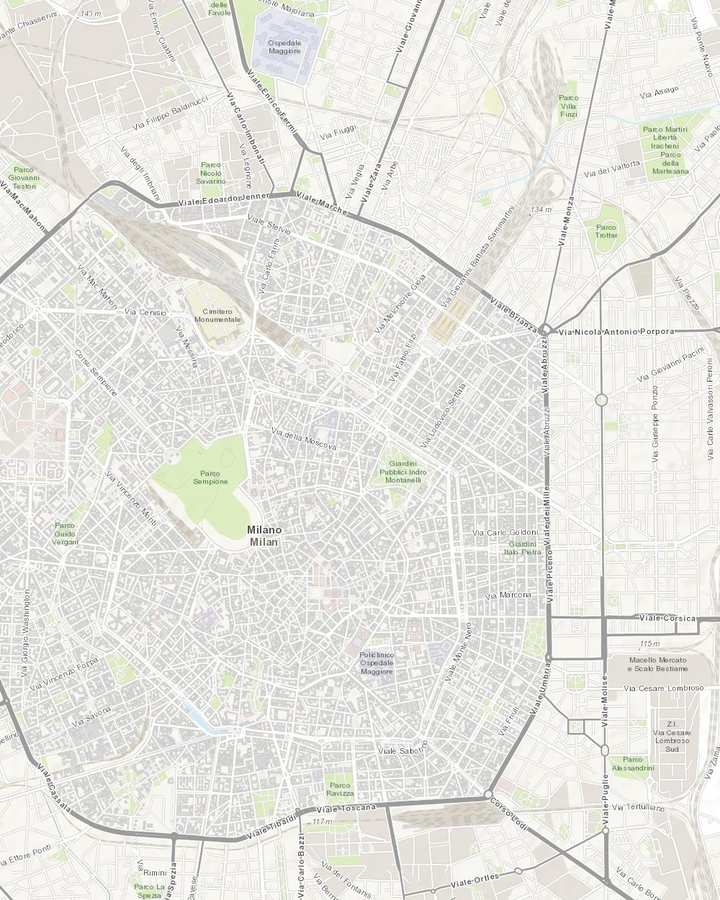
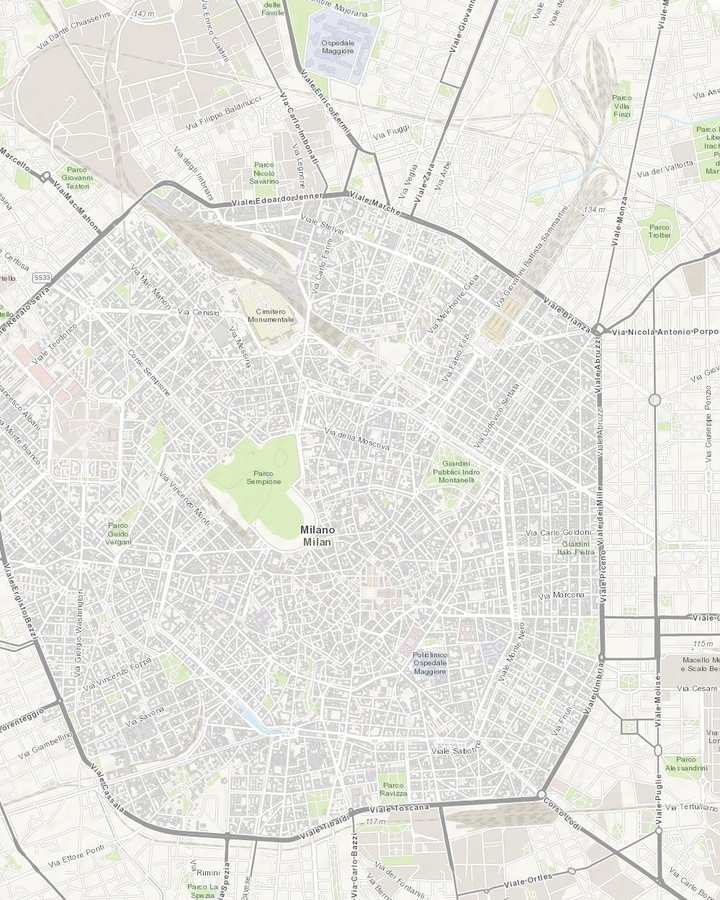
第 40 轮：米兰重排——D10 傍晚大教堂露台看日落、Ratanà 19:45；D11 睡到自然醒 + 长廊 + Da Pino 12:45 + 购物中间看《最后的晚餐》（下午场待填）；地图 10b/11 重画

diff --git a/index.html b/index.html
@@ -1369,19 +1369,19 @@ var DAYS = [
 /* ---------------- D10 ---------------- */
 {
   n:10, date:"2026-10-15", dow:"周四", city:"布雷萨诺内 → 米兰",
-  line:"9:30 直接出发去米兰（开车约 4 小时 + 午饭 1.5 小时，两人换手）；15:00 卸行李、15:30 还车、傍晚 Porta Nuova 机动",
+  line:"9:30 直接出发去米兰（开车约 4 小时 + 午饭 1.5 小时，两人换手）；15:00 卸行李、15:30 还车；16:45 大教堂、17:15 上露台看 18:39 日落；19:45 Ratanà",
   drive:"开车约 4 小时 + 午饭 45 分，两人换手", stayShort:"米兰 Modern Apartment",
   stay:{ t:"米兰 Modern Apartment · 10/15-10/17 共 2 晚", d:"房东 Luca｜Viale Lunigiana 4｜入住 15:00 后 · 退房 10:00 · 22:00 后安静。", addr:"Viale Lunigiana 4, 20125 Milano" },
   wc:["milano"],
-  flag:"※ 9:30 直接出发去米兰；Europcar 订单 16:00 还车，15:30 到就还，车开进 Via Vittor Pisani 19 地下二层，不是车站里；进城前加满油，绕车拍视频",
+  flag:"※ 9:30 直接出发去米兰；Europcar 订单 16:00 还车，15:30 到就还，车开进 Via Vittor Pisani 19 地下二层，不是车站里；进城前加满油，绕车拍视频；大教堂 Combo Lift 提前买 10/15 17:00 那档，露台上看日落",
   route:[
     {n:"Gerharts 公寓", m:"Kreuzgasse 11 Brixen", leg:"🚗 约 4 小时，中间坐下吃午饭 1.5 小时"},
     {n:"民宿 Viale Lunigiana 4（先卸行李）", m:"Viale Lunigiana 4 Milano", leg:"🚗 3 分钟"},
     {n:"Europcar 还车 · Via Vittor Pisani 19 地下二层", m:"Via Vittor Pisani 19 Milano", leg:"步行约 15 分钟"},
-    {n:"民宿 Viale Lunigiana 4", m:"Viale Lunigiana 4 Milano", leg:"M2 两站到 Gioia（或打车 10 分钟）"},
-    {n:"Gae Aulenti 广场 · 垂直森林（机动）", m:"Piazza Gae Aulenti Milano", leg:"步行约 4 分钟"},
-    {n:"Corso Como 步行街 · Eataly（机动）", m:"Corso Como 10 Milano", leg:"步行约 10 分钟"},
-    {n:"晚饭 Ratanà", m:"Ratanà Via Gaetano de Castillia 28 Milano", leg:"打车 10 分钟回住处（或 M2 Gioia 一站到 Centrale）"}
+    {n:"民宿 Viale Lunigiana 4 · 放包歇 20 分钟", m:"Viale Lunigiana 4 Milano", leg:"步行 6 分钟到中央车站 · 🚇 M3 四站到 Duomo 约 10 分钟"},
+    {n:"米兰大教堂：先内部，17:15 上露台看日落", m:"Duomo di Milano", leg:"🚕 约 15 分钟（或 M3 回 Centrale 换 M2 一站到 Gioia 走 9 分钟）"},
+    {n:"晚饭 Ratanà", m:"Ratanà Via Gaetano de Castillia 28 Milano", leg:"步行约 5 分钟"},
+    {n:"Gae Aulenti 广场 · 垂直森林夜景（可选）", m:"Piazza Gae Aulenti Milano", leg:"打车 10 分钟回住处（或 M2 Gioia 一站到 Centrale 走 10 分钟）"}
   ],
   steps:[
     { id:"d10-1", t:"9:30", e:"🚗", a:"早饭退房出发去米兰：A22 → A4 约 4 小时，中间坐下吃午饭 1.5 小时，两人换手",
@@ -1394,54 +1394,65 @@ var DAYS = [
       sub:"进城前最后一个加油站加满（满取满还），绕车拍视频。导航输 Via Vittor Pisani 19，开进地下二层 Europcar 区，钥匙当面交给工作人员、拿回执；办手续的门店在 Via Luigi Galvani 12，走 6 分钟。当天 7:30–21:00，电话 +39 02 66987826。",
       addr:["Europcar 还车库：Via Vittor Pisani 19, 20124 Milano","Europcar 门店：Via Luigi Galvani 12, 20124 Milano"],
       nav:{m:"Via Vittor Pisani 19 Milano", mode:"driving"} },
-    { id:"d10-5", t:"16:00", e:"🔑", a:"走 15 分钟回民宿，入住休整（箱子已经在屋里）",
-      sub:"从 Via Vittor Pisani 走到车站前的 Piazza Duca d'Aosta，绕到车站东侧，沿 Via Sammartini 到 Viale Lunigiana 4，平路 15 分钟。路上没吃好：车站外 Piazza Luigi di Savoia 那侧（去民宿的方向）就有 All'Antico Vinaio（每天 10:00-22:00），买个佛罗伦萨式 schiacciata 夹饼带回去。",
+    { id:"d10-5", t:"15:45", e:"🔑", a:"走 15 分钟回民宿放包、歇 20 分钟（箱子已经在屋里）",
+      sub:"从 Via Vittor Pisani 走到车站前的 Piazza Duca d'Aosta，绕到车站东侧，沿 Via Sammartini 到 Viale Lunigiana 4，平路 15 分钟。换双好走的鞋，带件外套：露台上有风。",
       nav:{m:"Viale Lunigiana 4 Milano", mode:"walking"} },
-    { id:"d10-6", t:"18:00", e:"🌆", a:"机动：Centrale 坐 M2 两站到 Gioia，走 5 分钟到 Porta Nuova——Gae Aulenti 广场、垂直森林", optional:true,
-      sub:"新米兰的客厅：下沉式广场、喷泉、玻璃高楼天际线；沿 Luigi Veronelli 步道看 Bosco Verticale 两栋长满树的楼。累了就不去，19:15 直接从住处打车去晚饭。",
-      nav:{m:"Piazza Gae Aulenti Milano", mode:"transit"}, place:"Piazza Gae Aulenti Milano" },
-    { id:"d10-7", t:"18:40", e:"🛍", a:"机动：Corso Como 步行街 + Eataly Smeraldo 买带回国的吃的，40 分钟", optional:true,
-      sub:"广场走 4 分钟到 Corso Como，300 米步行街，10 Corso Como 概念店进去看看；尽头 Piazza XXV Aprile 的 Eataly（每天 8:30-21:00）买意面、橄榄油、咖啡豆，先逛后吃，别放饭后。",
-      addr:["Eataly Milano Smeraldo：Piazza XXV Aprile 10, Milano"],
-      nav:{m:"Corso Como 10 Milano", mode:"walking"} },
-    { id:"d10-8", t:"19:30", e:"🍚", a:"晚饭 Ratanà：Gioia 站走 8 分钟；没去 Porta Nuova 就从住处打车 10 分钟", kind:"eat",
+    { id:"d10-5b", t:"16:20", e:"🚇", a:"走 6 分钟到中央车站，M3 黄线（往 San Donato 方向）四站到 Duomo，约 10 分钟",
+      sub:"Centrale → Repubblica → Turati → Montenapoleone → Duomo，出站就是大教堂广场，16:40 到。",
+      tips:["米兰地铁 2026 年起不卖纸票：每人拿自己的非接触信用卡（或手机）在闸机上刷，€2.20 一程 90 分钟内随便换乘，一天自动封顶 €7.60；出站也要刷同一张卡"],
+      nav:{m:"Duomo Metro Milano", mode:"transit"} },
+    { id:"d10-6", t:"16:45", hard:"Combo Lift 官网买 10/15 17:00 那档", e:"⛪", a:"米兰大教堂：先进教堂 30 分钟，17:15 电梯上露台，等 18:39 日落", it:"Duomo di Milano",
+      sub:"Combo Lift €26/人（含教堂 + 电梯上屋顶 + 大教堂博物馆 + San Gottardo 教堂，博物馆不看）。今天顺序反过来：先进教堂内部 30 分钟（教堂 19:00 关、末入 18:10），17:15 走北侧电梯入口上露台，在上面待到 19:00 关门：18:39 日落，黄金圣母和尖塔群被夕阳打红，之后城市灯亮。下来全程楼梯（251 级），慢慢走扶栏杆。",
+      warn:["电梯只到露台第一层：再上一层和全程下来都是楼梯","着装过膝盖、过肩膀，教堂里不戴帽子；别带大包","露台 19:00 准时清场，18:50 就往楼梯口走"],
+      need:["米兰大教堂 Combo Lift 电子票（官网订 10/15 17:00 档）"],
+      tips:["屋顶重点：避雷针上的黄金圣母 Madonnina（米兰最高点）、半裸的拿破仑像、藏在雕塑群里的拳击手；正门和屋顶都留着二战弹痕，没抹掉","进门前看正门青铜浮雕：右边圣母之乐、左边圣母之苦","里面：低头看脚下的墓碑，抬头找红灯标记的圣钉（主祭坛上方），别错过剥皮的圣巴多罗买雕像，内部最有名的一件","广场人多防偷，包背前面","视频给四个 A：专程为它来米兰不值，人在米兰绝不能错过"],
+      link:{u:"https://ticket.duomomilano.it/en/", l:"官网买票"},
+      ticket:true, nav:{m:"Duomo di Milano", mode:"walking"}, place:"Duomo di Milano",
+      video:"https://www.bilibili.com/video/BV14tE1ziEQX/" },
+    { id:"d10-7", t:"19:00", e:"🚕", a:"下露台打车 15 分钟去 Ratanà（或 M3 回 Centrale 换 M2 一站到 Gioia 再走 9 分钟，约 30 分钟）",
+      sub:"广场边用 FreeNow 叫车最省事，约 €15，19:20 到，正好落座。",
+      nav:{m:"Ratanà Via Gaetano de Castillia 28 Milano", mode:"driving"} },
+    { id:"d10-8", t:"19:45", e:"🍚", a:"晚饭 Ratanà：Isola 区 1920 年代老宅里的烩饭", kind:"eat",
       meals:[
         {n:"Ratanà", g:"4.4",
          d:"招牌 risotto alla vecchia Milano：藏红花烩饭配小牛 ossobuco 可乐饼和骨髓；还有当季菜、米兰炸小牛排",
          h:"每天 12:00-14:30 / 19:00-23:00",
          w:"Google 4.4（3,865 评），€40-90，点单菜人均 €60-70；1920 年代老宅 + 小花园，Isola 区，本地人多",
-         b:"官网表单订，收到确认邮件才算，没收到就打电话", tel:"+39 02 8712 8855", m:"Ratanà Via Gaetano de Castillia 28 Milano"}
+         b:"官网表单订 19:45，收到确认邮件才算，没收到就打电话", tel:"+39 02 8712 8855", m:"Ratanà Via Gaetano de Castillia 28 Milano"}
       ],
       tips:["爸妈嫌烩饭夹生：意大利烩饭标配是米芯稍硬（al dente），点单时提前说厨房才会多煮两分钟。英语：「Could you please cook the risotto a little longer, softer than al dente? My parents prefer it well done.」意大利语：「Il risotto ben cotto, non al dente, per favore.」","烩饭是两人起做的店也常见，三人点两份分着吃正好，再点一份主菜"],
       addr:["Ratanà：Via Gaetano de Castillia 28, Milano"],
       link:{u:"https://www.ratana.it/?lang=en", l:"官网订位"},
       nav:{m:"Ratanà Via Gaetano de Castillia 28 Milano", mode:"walking"} },
     { id:"d10-9", t:"21:30", e:"🏠", a:"回住处：让餐厅叫车 10 分钟，或走 5 分钟到 M2 Gioia 坐一站到 Centrale 再走 10 分钟",
-      nav:{m:"Viale Lunigiana 4 Milano", mode:"driving"} }
+      nav:{m:"Viale Lunigiana 4 Milano", mode:"driving"} },
+    { id:"d10-9", t:"饭后", e:"🌆", a:"可选：走 5 分钟到 Gae Aulenti 广场看垂直森林和玻璃高楼的夜景，15 分钟", optional:true,
+      sub:"Ratanà 就在 Porta Nuova 边上：下沉式广场、喷泉、Bosco Verticale 两栋长满树的楼，晚上亮灯好看。看完让餐厅叫车 10 分钟回住处，或走 5 分钟到 M2 Gioia 坐一站到 Centrale 再走 10 分钟。",
+      nav:{m:"Piazza Gae Aulenti Milano", mode:"walking"}, place:"Piazza Gae Aulenti Milano" }
   ]
 },
 /* ---------------- D11 ---------------- */
 {
-  n:11, date:"2026-10-16", dow:"周五", city:"米兰 · 大教堂 + 购物",
-  line:"中央车站里吃早饭、M3 到 Duomo，11:00 大教堂 + 屋顶，Luini 站着吃个午饭，下午购物（Marchesi 下午茶可选），Camparino 一杯，晚饭 Nerino Dieci",
+  n:11, date:"2026-10-16", dow:"周五", city:"米兰 · 购物 + 下午《最后的晚餐》",
+  line:"睡到自然醒，站里早饭、M3 到 Duomo 逛长廊，12:45 Da Pino，下午购物，中间抽 1.5 小时看《最后的晚餐》（淘宝代抢的下午场，出票后填时间），Camparino 一杯，晚饭 Nerino Dieci",
   drive:"", stayShort:"米兰 Modern Apartment",
   stay:{ t:"米兰 Modern Apartment · 第 2 晚（明早退房）", d:"Viale Lunigiana 4 · 退房 10:00 · 22:00 后安静。", addr:"Viale Lunigiana 4, 20125 Milano" },
   wc:["milano"],
-  flag:"※ 大教堂 Combo Lift 票官网提前买；退税单收好，明天机场办",
+  flag:"※ 《最后的晚餐》场次时间出票后填进下午那步，提前 40 分钟从店里出发；退税单收好，明天机场办",
   route:[
     {n:"民宿 Viale Lunigiana 4", m:"Viale Lunigiana 4 Milano", leg:"步行约 6 分钟"},
     {n:"早饭 Mercato Centrale（中央车站里）", m:"Mercato Centrale Milano", leg:"🚇 M3 四站到 Duomo 约 10 分钟"},
-    {n:"米兰大教堂 + 屋顶露台", m:"Duomo di Milano", leg:"步行约 2 分钟"},
     {n:"埃马努埃莱二世长廊 · 斯卡拉广场", m:"Galleria Vittorio Emanuele II Milano", leg:"步行约 14 分钟"},
     {n:"午饭 Trattoria Da Pino", m:"Trattoria Da Pino Via Cerva 14 Milano", leg:"步行约 10 分钟"},
-    {n:"蒙特拿破仑街 + Buccellati", m:"Buccellati Via Monte Napoleone 23 Milano", leg:"步行约 10 分钟"},
+    {n:"蒙特拿破仑街 + Buccellati", m:"Buccellati Via Monte Napoleone 23 Milano", leg:"🚕 约 15 分钟（或 M3 一站到 Duomo 换 M1 两站到 Cadorna 走 9 分钟）"},
+    {n:"《最后的晚餐》Santa Maria delle Grazie（下午场，时间待填）", m:"Cenacolo Vinciano Milano", leg:"🚇 M1 Cadorna 两站回 Duomo 约 15 分钟"},
     {n:"埃马努埃莱二世大街 · 文艺复兴百货", m:"La Rinascente Milano", leg:"步行约 2 分钟"},
     {n:"Marchesi 1824 下午茶（可选）· Camparino 开胃酒", m:"Camparino in Galleria Milano", leg:"步行约 11 分钟"},
     {n:"晚饭 Nerino Dieci", m:"Nerino Dieci Via Nerino 10 Milano", leg:"🚇 M3 Missori 五站到 Centrale + 步行 11 分钟（或打车 10 分钟）"}
   ],
   steps:[
-    { id:"d11-1", t:"9:00", e:"🥐", a:"出门走 6 分钟到中央车站，早饭 Mercato Centrale（站里）", kind:"eat",
-      sub:"顺路：吃完直接在站里坐 M3。挑面包摊、咖啡摊，40 分钟。",
+    { id:"d11-1", t:"9:30", e:"🥐", a:"出门走 6 分钟到中央车站，早饭 Mercato Centrale（站里）", kind:"eat",
+      sub:"今天不赶，睡到自然醒；吃完直接在站里坐 M3。挑面包摊、咖啡摊，40 分钟。",
       meals:[
         {n:"Mercato Centrale Milano", g:"4.4",
          d:"面包、咸派、咖啡摊挑着吃，人均 €10 内",
@@ -1451,23 +1462,15 @@ var DAYS = [
       ],
       addr:["Mercato Centrale：Via G.B. Sammartini 2（中央车站内）, Milano"],
       nav:{m:"Mercato Centrale Milano", mode:"walking"} },
-    { id:"d11-2", t:"9:50", e:"🚇", a:"中央车站坐 M3 黄线（往 San Donato 方向）四站到 Duomo，约 10 分钟",
-      sub:"Centrale → Repubblica → Turati → Montenapoleone → Duomo，出站就是大教堂广场。到早了先在广场和长廊转转，10:45 到大教堂北侧屋顶入口排队。",
+    { id:"d11-2", t:"10:15", e:"🚇", a:"中央车站坐 M3 黄线（往 San Donato 方向）四站到 Duomo，约 10 分钟",
+      sub:"Centrale → Repubblica → Turati → Montenapoleone → Duomo，出站就是大教堂广场。昨天已经上过露台、进过教堂，今天只在广场看看外立面。",
       tips:["米兰地铁 2026 年起不卖纸票：每人拿自己的非接触信用卡（或手机）在闸机上刷，€2.20 一程 90 分钟内随便换乘，一天自动封顶 €7.60；出站也要刷同一张卡"],
       nav:{m:"Duomo Metro Milano", mode:"transit"} },
-    { id:"d11-3", t:"11:00", hard:"官网提前买票", e:"⛪", a:"米兰大教堂 + 屋顶露台：先上屋顶再进教堂，按 2 小时算", it:"Duomo di Milano",
-      sub:"买 Combo Lift 票 €26/人（含教堂 + 电梯上屋顶 + 大教堂博物馆 + San Gottardo 教堂，两天有效，博物馆想看再看）。教堂里 30-45 分钟、屋顶 45 分钟左右，加安检排队按 2 小时算，12:45 前出来。",
-      warn:["电梯只到露台第一层：再上一层和全程下来都是楼梯，爸妈慢慢走、扶栏杆","着装过膝盖、过肩膀，教堂里不戴帽子；别带大包"],
-      need:["米兰大教堂 Combo Lift 电子票（官网订）"],
-      tips:["顺序：先上屋顶再进内部，屋顶下来的楼梯直通教堂里，不走回头路","屋顶重点：避雷针上的黄金圣母 Madonnina（米兰最高点）、半裸的拿破仑像、藏在雕塑群里的拳击手；正门和屋顶都留着二战弹痕，没抹掉","进门前看正门青铜浮雕：右边圣母之乐、左边圣母之苦","里面：低头看脚下的墓碑，抬头找红灯标记的圣钉（主祭坛上方），别错过剥皮的圣巴多罗买雕像，内部最有名的一件","广场人多防偷，包背前面","视频给四个 A：专程为它来米兰不值，人在米兰绝不能错过"],
-      link:{u:"https://ticket.duomomilano.it/en/", l:"官网买票"},
-      ticket:true, nav:{m:"Duomo di Milano", mode:"walking"}, place:"Duomo di Milano",
-      video:"https://www.bilibili.com/video/BV14tE1ziEQX/" },
-    { id:"d11-4", t:"12:45", e:"🛍", a:"出来逛长廊：就是埃马努埃莱二世长廊，穿过去到斯卡拉广场",
-      sub:"大教堂北侧那座玻璃顶拱廊 Galleria Vittorio Emanuele II，早上吃早饭的地方；马赛克地板的公牛脚跟转三圈，四大洲穹顶画抬头看，Prada 1913 老店；穿过去就是斯卡拉歌剧院和达芬奇雕像的广场。",
+    { id:"d11-4", t:"10:30", e:"🛍", a:"逛长廊到斯卡拉广场，慢慢走到 12:30",
+      sub:"大教堂北侧那座玻璃顶拱廊 Galleria Vittorio Emanuele II：马赛克地板的公牛脚跟转三圈，四大洲穹顶画抬头看，Prada 1913 老店；穿过去就是斯卡拉歌剧院和达芬奇雕像的广场，再往 Via Dante 方向随便走。走累了长廊里 Marchesi 1824 坐坐（16:30 那步可以提前到这会儿）；12:30 往 Da Pino 走。",
       nav:{m:"Galleria Vittorio Emanuele II Milano", mode:"walking"} },
-    { id:"d11-5", t:"13:00", e:"🍝", a:"午饭 Trattoria Da Pino：1968 年的午市老店，坐下吃 1.5 小时", kind:"eat",
-      sub:"长廊出来走 14 分钟到 Via Cerva 14。只做午市 12:00–15:00，周六也开、周日休，不接受订位，12:30 后要排队，13:00 到排一会儿；菜单每天换：米兰炸小牛排 cotoletta、烩饭、bollito 配 salsa verde、自制提拉米苏，便宜得不像市中心。14:30 出来走 10 分钟到蒙特拿破仑街。想吃 Luini 的炸馅饼就路过加一口，不当午饭。",
+    { id:"d11-5", t:"12:45", e:"🍝", a:"午饭 Trattoria Da Pino：1968 年的午市老店，坐下吃 1.5 小时", kind:"eat",
+      sub:"长廊出来走 14 分钟到 Via Cerva 14。只做午市 12:00–15:00，周六也开、周日休，不接受订位，12:30 后要排队，12:45 到排一会儿；菜单每天换：米兰炸小牛排 cotoletta、烩饭、bollito 配 salsa verde、自制提拉米苏，便宜得不像市中心。14:15 出来走 10 分钟到蒙特拿破仑街。想吃 Luini 的炸馅饼就路过加一口，不当午饭。",
       meals:[
         {n:"Trattoria Da Pino", g:"4.3",
          d:"cotoletta alla milanese、risotto、bollito 配 salsa verde、fegato alla veneziana、自制提拉米苏",
@@ -1482,12 +1485,20 @@ var DAYS = [
       ],
       addr:["Trattoria Da Pino：Via Cerva 14, Milano","Luini：Via Santa Radegonda 16, Milano"],
       nav:{m:"Trattoria Da Pino Via Cerva 14 Milano", mode:"walking"} },
-    { id:"d11-6", t:"14:30", e:"💍", a:"购物：蒙特拿破仑街 → 埃马努埃莱二世大街 → 文艺复兴百货，逛到 18:15",
-      sub:"妈妈要的四瓣花在 Buccellati（Via Monte Napoleone 23，周五 10:30-19:00）。米兰逛街就这三段连着走，全在步行 10 分钟圈里。",
+    { id:"d11-6", t:"14:15", e:"💍", a:"购物：蒙特拿破仑街 → 埃马努埃莱二世大街 → 文艺复兴百货，逛到 18:15；中间按《最后的晚餐》场次抽 1.5 小时",
+      sub:"妈妈要的四瓣花在 Buccellati（Via Monte Napoleone 23，周五 10:30-19:00）。米兰逛街就这三段连着走，全在步行 10 分钟圈里。《最后的晚餐》几点场就几点走：场次前 40 分钟从店里出发（下一步），看完回来接着逛。",
       tips:["① 蒙特拿破仑街 + Via della Spiga：奢侈品四边形，店多 10:00-19:30，看橱窗为主，只进要买的","② 走回 Corso Vittorio Emanuele II（大教堂到 San Babila 的步行街）：大众和中档牌子都在这条街，最适合爸妈实穿的","③ Rinascente 文艺复兴百货（Piazza Duomo，周五 9:30-22:00）：意大利中高端牌子集中，进门问服务台要楼层图和退税柜台位置；7 楼 food hall + 露台正对大教堂尖顶，逛累了在这歇脚喝咖啡","④ 还有劲：走 15 分钟到 Brera 小街逛设计小店，或明早退房前不行；离住处最近的大众商业街是 Corso Buenos Aires（Porta Venezia 到 Loreto，1.2 公里，多数店 19:00-20:00 关），今晚回程 M1 在 Lima 下车就能顺路逛","退税：同一张发票 €70.01 以上才能退，让店员开 tax free 单，护照带着；退税的东西不拆吊牌不上身、按退税公司分开放，行李箱单独开一张单（帖子说箱子最容易被驳回，别和别的东西开一张）；不同护照买的别混放"],
       warn:["退税单收好，明天机场办"],
       addr:["Buccellati：Via Monte Napoleone 23, Milano","Rinascente：Piazza del Duomo, Milano"],
       nav:{m:"Via Monte Napoleone Milano", mode:"walking"} },
+    { id:"d11-6c", t:"下午", hard:"淘宝出票后把场次时间填在这里，提前 40 分钟出发", e:"🖼", a:"《最后的晚餐》：Santa Maria delle Grazie 修道院食堂，看 15 分钟", it:"Cenacolo Vinciano",
+      sub:"蒙特拿破仑街打车 15 分钟最省事（约 €15）；坐地铁：M3 一站到 Duomo 换 M1 两站到 Cadorna，出站走 9 分钟，约 25 分钟。入口在 Piazza Santa Maria delle Grazie 2，提前 20 分钟到门口核票（票是实名的，带护照）。每场 15 分钟、40 人，到点清场；进画室前先在恒温恒湿的过渡舱里等几分钟。看完旁边的教堂免费（工作日 15:30–19:00 开），进去 10 分钟看 Bramante 的圆顶后堂；然后 M1 Cadorna 两站回 Duomo，或打车 15 分钟回蒙特拿破仑街接着逛。",
+      tips:["画在食堂北墙上，隔几米远看，不许闪光；进去前先看一遍讲解视频（📺），15 分钟才看得出门道","抢票规则：官方 cenacolovinciano.vivaticket.it 每周三 12:00 意大利时间放下一整周的票（10/25 前是夏令时，= 北京 18:00），€15/人，一单最多 5 张；10/16 的票 10/7 周三放，淘宝没抢到自己也能试"],
+      need:["《最后的晚餐》电子票或淘宝代订凭证 + 三本护照"],
+      addr:["Cenacolo Vinciano：Piazza Santa Maria delle Grazie 2, Milano"],
+      link:{u:"https://cenacolovinciano.vivaticket.it", l:"官方售票"},
+      ticket:true, nav:{m:"Cenacolo Vinciano Milano", mode:"driving"}, place:"Cenacolo Vinciano Milano",
+      video:"https://search.bilibili.com/all?keyword=%E6%9C%80%E5%90%8E%E7%9A%84%E6%99%9A%E9%A4%90%20%E7%B1%B3%E5%85%B0%20%E8%AE%B2%E8%A7%A3" },
     { id:"d11-6b", t:"16:30", e:"🍰", a:"下午茶 Marchesi 1824 长廊店（可选）：逛累了坐进去喝杯 cappuccino 配小蛋糕", optional:true,
       sub:"长廊里 Prada 老店斜对面，Rinascente 走 2 分钟。1824 年米兰最老的糕点店，Prada 家的，绿丝绒沙龙正对长廊玻璃顶；Google 4.3（3,474 评），每天 7:30-21:00；人均 €20-30，贵在位置，可吃可不吃。",
       addr:["Marchesi 1824：Galleria Vittorio Emanuele II, Milano"],
@@ -1784,36 +1795,36 @@ var MAPS2 = {
   "10b": {
     w:1000, h:1250,
     img:"maps/10b.jpg",
-    walk:[[596,739],[597,737],[573,720],[574,717],[578,710],[579,708],[580,705],[581,703],[586,689],[591,678],[596,667],[597,664],[598,662],[599,660],[597,659],[595,657],[602,639],[601,637],[602,635],[603,633],[608,626],[611,620],[612,618],[613,616],[618,611],[619,609],[623,604],[630,594],[631,592],[633,591],[634,589],[638,583],[652,565],[653,562],[654,560],[656,558],[659,557],[662,553],[685,522],[686,518],[711,487],[711,479],[712,477],[715,477],[718,476],[721,474],[716,469],[342,727],[342,730],[337,730],[333,731],[332,733],[330,735],[327,736],[324,736],[321,735],[319,734],[317,732],[315,734],[313,735],[311,736],[308,740],[304,744],[295,751],[288,757],[281,762],[281,765],[279,779],[279,779],[282,765],[281,762],[288,757],[295,751],[303,744],[308,740],[311,737],[312,735],[315,734],[317,732],[319,734],[321,735],[324,736],[327,736],[329,735],[331,734],[333,731],[337,730],[342,730],[345,730],[348,730],[354,730],[354,725],[361,721],[362,703],[362,697],[363,684],[363,668],[363,658],[367,657],[374,656],[378,655],[382,654],[388,653],[394,652],[398,651],[403,651],[404,650]],
-    walkBreaks:[47, 68],
-    drive:[],
+    walk:[[534,509],[523,499],[525,494],[527,492],[530,484],[532,478],[535,473],[536,470],[535,468],[538,458],[539,456],[540,452],[542,449],[543,447],[546,445],[548,441],[552,436],[554,434],[556,431],[562,422],[563,420],[565,418],[567,416],[579,400],[580,398],[592,383],[592,379],[594,378],[596,377],[595,374],[595,374],[597,376],[595,377],[593,378],[592,383],[581,398],[580,400],[581,402],[568,420],[567,422],[565,424],[572,428],[574,430],[565,445],[561,452],[563,453],[565,454],[567,456],[569,457],[570,455],[569,454],[439,464],[436,465],[431,466],[428,466],[426,467],[420,468],[418,473],[418,480],[418,488],[418,491],[417,499],[413,501],[413,504],[409,504],[408,503]],
+    walkBreaks:[30, 51],
+    drive:[[406,833],[406,838],[405,847],[403,848],[403,857],[405,859],[409,859],[410,861],[414,864],[415,866],[422,874],[424,875],[426,876],[433,869],[438,863],[440,861],[442,859],[445,858],[447,856],[450,854],[452,853],[454,852],[461,847],[463,846],[465,845],[471,844],[475,844],[477,843],[483,843],[486,843],[488,844],[490,845],[492,846],[498,852],[501,852],[502,849],[504,847],[508,841],[509,839],[510,837],[517,827],[519,825],[520,823],[522,817],[523,814],[526,806],[528,802],[528,798],[528,795],[529,789],[529,786],[529,778],[529,775],[528,773],[521,758],[519,755],[515,748],[513,745],[508,739],[506,735],[503,731],[501,729],[494,722],[491,718],[490,716],[478,703],[473,697],[472,695],[468,691],[467,689],[469,687],[469,684],[470,681],[467,679],[465,678],[463,664],[463,660],[462,652],[461,640],[461,634],[460,630],[461,628],[463,625],[466,621],[474,608],[476,607],[477,605],[481,602],[483,599],[484,597],[485,595],[487,593],[488,591],[490,589],[491,587],[492,585],[493,583],[498,576],[500,572],[502,571],[508,561],[509,558],[510,556],[509,554],[507,553],[505,552],[499,548],[496,546],[494,545],[492,544],[488,541],[486,539],[483,538],[477,534],[474,532],[470,530],[467,527],[462,524],[458,522],[454,519],[449,515],[448,513],[447,511],[448,508],[450,505],[453,502],[454,500],[459,495],[463,490],[464,488],[466,486],[468,483],[466,482],[464,480],[461,478],[459,476],[457,464],[458,462],[457,460],[455,459],[453,461],[450,461],[438,464]],
     driveBreaks:[],
-    title:"D10 傍晚 米兰（还车 → 住处 → Porta Nuova 机动 → Ratanà）",
+    title:"D10 傍晚 米兰（还车 → 住处 → 大教堂看日落 → Ratanà）",
     pins:[
-      {x:595,y:739,n:1,k:"transit",l:"Europcar 还车库 Via Vittor Pisani 19",m:"Via Vittor Pisani 19 Milano",mo:"driving",leg:"步行 15 分（拖箱子就打车 5 分）"},
-      {x:716,y:469,n:2,k:"stay",l:"米兰住处",m:"Viale Lunigiana 4 Milano",mo:"walking",leg:"M2 两站到 Gioia + 步行 5 分（或打车 10 分）"},
-      {x:344,y:727,n:3,k:"sight",l:"Piazza Gae Aulenti（机动）",m:"Piazza Gae Aulenti Milano",mo:"walking",leg:"步行 4 分"},
-      {x:287,y:781,n:4,k:"shop",l:"Corso Como 步行街（机动）",m:"Corso Como 10 Milano",mo:"walking",leg:"步行 10 分"},
-      {x:404,y:651,n:5,k:"eat",l:"晚饭 Ratanà",m:"Ratanà Via Gaetano de Castillia 28 Milano",mo:"walking",leg:"打车 10 分回住处（或 M2 Gioia 一站到 Centrale）"}
+      {x:534,y:509,n:1,k:"transit",l:"Europcar 还车库 Via Vittor Pisani 19",m:"Via Vittor Pisani 19 Milano",mo:"walking",leg:"步行 15 分回住处放包"},
+      {x:595,y:374,n:2,k:"stay",l:"米兰住处",m:"Viale Lunigiana 4 Milano",mo:"walking",leg:"步行 6 分到 Centrale · M3 四站到 Duomo"},
+      {x:425,y:824,n:3,k:"sight",l:"大教堂：先内部，17:15 上露台看 18:39 日落",m:"Duomo di Milano",mo:"driving",leg:"打车 15 分（或 M3+M2 到 Gioia 走 9 分）"},
+      {x:439,y:465,n:4,k:"eat",l:"晚饭 Ratanà 19:45",m:"Ratanà Via Gaetano de Castillia 28 Milano",mo:"walking",leg:"步行 5 分"},
+      {x:409,y:503,n:5,k:"sight",l:"Gae Aulenti 广场夜景（可选）",m:"Piazza Gae Aulenti Milano",mo:"walking",leg:"打车 10 分回住处（或 M2 Gioia 一站到 Centrale）"}
     ]
   },
   "11": {
     w:1000, h:1250,
     img:"maps/11.jpg",
-    walk:[[632,375],[634,376],[633,378],[630,379],[629,384],[618,399],[616,401],[618,403],[605,421],[604,423],[609,429],[611,431],[602,446],[598,452],[600,454],[605,459],[610,463],[610,464],[462,831],[446,831],[446,827],[446,822],[446,818],[443,817],[444,815],[444,815],[444,808],[444,803],[444,799],[444,793],[444,788],[444,785],[440,782],[439,780],[441,781],[443,783],[445,784],[449,788],[451,790],[453,791],[456,794],[458,796],[462,793],[467,797],[469,799],[471,801],[479,807],[482,812],[483,814],[484,817],[487,816],[489,815],[491,814],[494,816],[496,819],[498,821],[502,821],[504,820],[507,820],[511,820],[516,819],[514,826],[516,827],[520,829],[522,830],[524,831],[529,834],[537,836],[541,830],[542,828],[545,825],[545,825],[546,823],[548,819],[552,811],[553,807],[554,805],[554,802],[553,799],[553,796],[550,785],[550,782],[544,781],[536,782],[532,781],[527,781],[524,779],[522,778],[520,777],[511,766],[508,762],[505,759],[502,755],[500,753],[498,751],[497,749],[494,745],[492,744],[491,742],[491,742],[492,744],[494,745],[497,749],[498,751],[500,753],[502,755],[504,758],[499,762],[496,765],[486,773],[484,774],[478,776],[478,779],[476,781],[475,783],[476,785],[473,789],[468,795],[467,797],[469,799],[471,801],[470,803],[468,805],[466,806],[470,812],[469,814],[466,814],[466,814],[460,814],[456,814],[453,814],[444,814],[441,814],[439,815],[435,815],[433,816],[432,820],[432,823],[432,827],[432,831],[430,832],[426,832],[424,833],[422,834],[416,840],[414,841],[408,848],[406,850],[400,857],[397,860],[394,864],[391,867],[389,868],[385,867],[383,866],[381,864],[378,862],[376,861],[373,865],[372,867],[369,872],[367,875],[366,876]],
-    walkBreaks:[18, 25, 71, 99, 127],
+    walk:[[706,375],[708,376],[707,378],[704,379],[703,384],[692,399],[691,401],[692,403],[679,421],[678,423],[683,429],[685,431],[676,446],[672,452],[674,454],[679,459],[684,463],[684,464],[518,815],[524,816],[534,816],[544,816],[550,816],[557,814],[558,817],[561,816],[563,815],[565,814],[568,816],[570,819],[572,821],[576,821],[578,820],[581,820],[585,820],[590,819],[588,826],[590,827],[594,829],[596,830],[598,831],[603,834],[611,836],[615,830],[616,828],[619,825],[619,825],[620,823],[622,819],[626,811],[627,807],[628,805],[628,802],[627,799],[627,796],[624,785],[624,782],[618,781],[610,782],[606,781],[601,781],[598,779],[596,778],[594,777],[585,766],[582,762],[579,759],[576,755],[574,753],[572,751],[571,749],[568,745],[566,744],[565,742],[292,794],[292,798],[300,798],[303,798],[309,788],[311,787],[321,770],[326,769],[328,767],[342,765],[346,766],[348,762],[349,760],[347,757],[350,754],[352,752],[352,750],[565,742],[566,744],[568,745],[571,749],[572,751],[574,753],[576,755],[578,758],[573,762],[570,765],[560,773],[558,774],[552,776],[552,779],[550,781],[549,783],[550,785],[547,789],[542,795],[541,797],[543,799],[546,801],[544,803],[542,805],[540,806],[544,812],[543,814],[540,814],[540,814],[534,814],[530,814],[527,814],[518,814],[515,814],[513,815],[509,815],[507,816],[506,820],[506,823],[506,827],[506,831],[504,832],[500,832],[498,833],[496,834],[490,840],[488,841],[482,848],[480,850],[474,857],[471,860],[468,864],[465,867],[463,868],[459,867],[457,866],[455,864],[452,862],[450,861],[447,865],[446,867],[443,872],[441,875],[440,876]],
+    walkBreaks:[18, 46, 74, 91, 119],
     drive:[],
     driveBreaks:[],
-    title:"D11 米兰大教堂 + 午饭 Da Pino + 购物（步行 + 地铁）",
+    title:"D11 米兰 长廊 + Da Pino + 购物 + 下午《最后的晚餐》（步行 + 地铁）",
     pins:[
-      {x:632,y:374,n:1,k:"stay",l:"米兰住处",m:"Viale Lunigiana 4 Milano",mo:"walking",leg:"步行 6 分"},
-      {x:609,y:464,n:2,k:"eat",l:"早饭 Mercato Centrale（车站里）",m:"Mercato Centrale Milano",mo:"walking",leg:"M3 四站到 Duomo"},
-      {x:462,y:824,n:3,k:"sight",l:"米兰大教堂 + 屋顶",m:"Duomo di Milano",mo:"walking",leg:"逛长廊 · 步行 14 分"},
-      {x:444,y:815,n:4,k:"sight",l:"埃马努埃莱二世长廊 · 斯卡拉广场",m:"Galleria Vittorio Emanuele II Milano",mo:"walking",leg:"步行 14 分"},
-      {x:545,y:825,n:5,k:"eat",l:"午饭 Trattoria Da Pino",m:"Trattoria Da Pino Via Cerva 14 Milano",mo:"walking",leg:"步行 10 分"},
-      {x:491,y:743,n:6,k:"shop",l:"Buccellati · 蒙特拿破仑街",m:"Buccellati Via Monte Napoleone 23 Milano",mo:"walking",leg:"步行 10 分"},
-      {x:466,y:811,n:7,k:"shop",l:"文艺复兴百货 · Camparino",m:"La Rinascente Milano",mo:"walking",leg:"步行 11 分"},
-      {x:366,y:875,n:8,k:"eat",l:"晚饭 Nerino Dieci",m:"Nerino Dieci Via Nerino 10 Milano",mo:"walking",leg:"M3 Missori 五站到 Centrale + 步行 11 分"}
+      {x:706,y:374,n:1,k:"stay",l:"米兰住处",m:"Viale Lunigiana 4 Milano",mo:"walking",leg:"步行 6 分"},
+      {x:683,y:464,n:2,k:"eat",l:"早饭 Mercato Centrale（车站里）",m:"Mercato Centrale Milano",mo:"walking",leg:"M3 四站到 Duomo"},
+      {x:518,y:815,n:3,k:"sight",l:"长廊 · 斯卡拉广场（10:30–12:30）",m:"Galleria Vittorio Emanuele II Milano",mo:"walking",leg:"步行 14 分"},
+      {x:619,y:825,n:4,k:"eat",l:"午饭 Trattoria Da Pino 12:45",m:"Trattoria Da Pino Via Cerva 14 Milano",mo:"walking",leg:"步行 10 分"},
+      {x:565,y:743,n:5,k:"shop",l:"Buccellati · 蒙特拿破仑街",m:"Buccellati Via Monte Napoleone 23 Milano",mo:"driving",leg:"打车 15 分（或 M3+M1 到 Cadorna 走 9 分）"},
+      {x:292,y:794,n:6,k:"sight",l:"《最后的晚餐》下午场（时间待填）",m:"Cenacolo Vinciano Milano",mo:"walking",leg:"M1 Cadorna 两站回 Duomo 15 分"},
+      {x:540,y:811,n:7,k:"shop",l:"文艺复兴百货 · Camparino",m:"La Rinascente Milano",mo:"walking",leg:"步行 11 分"},
+      {x:440,y:875,n:8,k:"eat",l:"晚饭 Nerino Dieci",m:"Nerino Dieci Via Nerino 10 Milano",mo:"walking",leg:"M3 Missori 五站到 Centrale + 步行 11 分"}
     ]
   },
   "9b": {
@@ -1878,9 +1889,12 @@ var PREP = [
   { id:"prep-15", cat:"🎫 门票", a:"锡耶纳大教堂 10/9 联票 OPA SI PASS",
     d:"官方售票在 Vivaticket：进链接选 OPA SI PASS → 日期 09/10/2026 → 3 张 → 付款。也可现场买，10 月是地面揭开期（到 10/31），周五 10:00–19:00。",
     link:{u:"https://operalaboratori.vivaticket.it/", l:"官方售票页 operalaboratori.vivaticket.it"} },
-  { id:"prep-27", cat:"🎫 门票", a:"米兰大教堂 Combo Lift 票 €26 × 3（10/16 11:00）",
+  { id:"prep-27", cat:"🎫 门票", a:"米兰大教堂 Combo Lift 票 €26 × 3（10/15 17:00 那档，露台看日落）",
     d:"含教堂 + 电梯上屋顶 + 博物馆 + San Gottardo，两天有效；官网买，手机出示。",
     link:{u:"https://ticket.duomomilano.it/en/", l:"ticket.duomomilano.it"} },
+  { id:"prep-27b", cat:"🎫 门票", a:"《最后的晚餐》10/16 下午（淘宝代抢中）",
+    d:"出票后把场次时间填进 D11 下午那步，提前 40 分钟从店里出发。自己也能试：官方 cenacolovinciano.vivaticket.it 每周三 12:00 意大利时间（= 北京 18:00，10/25 前是夏令时）放下一整周的票，10/16 的票 10/7 周三 18:00 北京放；€15/人，一单最多 5 张，实名。",
+    link:{u:"https://cenacolovinciano.vivaticket.it", l:"cenacolovinciano.vivaticket.it"} },
   { id:"prep-11", cat:"🍽 订位", a:"La Taverna di San Giuseppe 官网订 10/9 午 13:45（锡耶纳）",
     link:{u:"https://www.tavernasangiuseppe.it", l:"tavernasangiuseppe.it"} },
   { id:"prep-12", cat:"🍽 订位", a:"Acquacheta 请房东 Arnd 代打（10/9 晚 19:30 · 3 人）",
@@ -1900,7 +1914,7 @@ var PREP = [
     d:"官网 fink1896.it 在线订，顺便确认周三开；订不上改 Vitis 官网表单或电话 +39 0472 835343。" },
   { id:"prep-22d", cat:"🅿 停车", a:"Zans 停车场 10/14（可选）",
     d:"villnoess.eu 线上订位 €12；10 月中旬工作日现场 €10 一般有位，不订也行。" },
-  { id:"prep-17", cat:"🍽 订位", a:"Ratanà（10/15 晚 19:30 · 米兰）",
+  { id:"prep-17", cat:"🍽 订位", a:"Ratanà（10/15 晚 19:45 · 米兰）",
     d:"官网表单订，收到确认邮件才算。" },
   { id:"prep-18", cat:"🍽 订位", a:"Nerino Dieci（10/16 晚 19:30 · 米兰）",
     d:"官网订；没有意大利手机号订不上就电话 +39 02 3983 1019。订不上改 Trippa 电话 / WhatsApp +39 327 668 7908。" }
